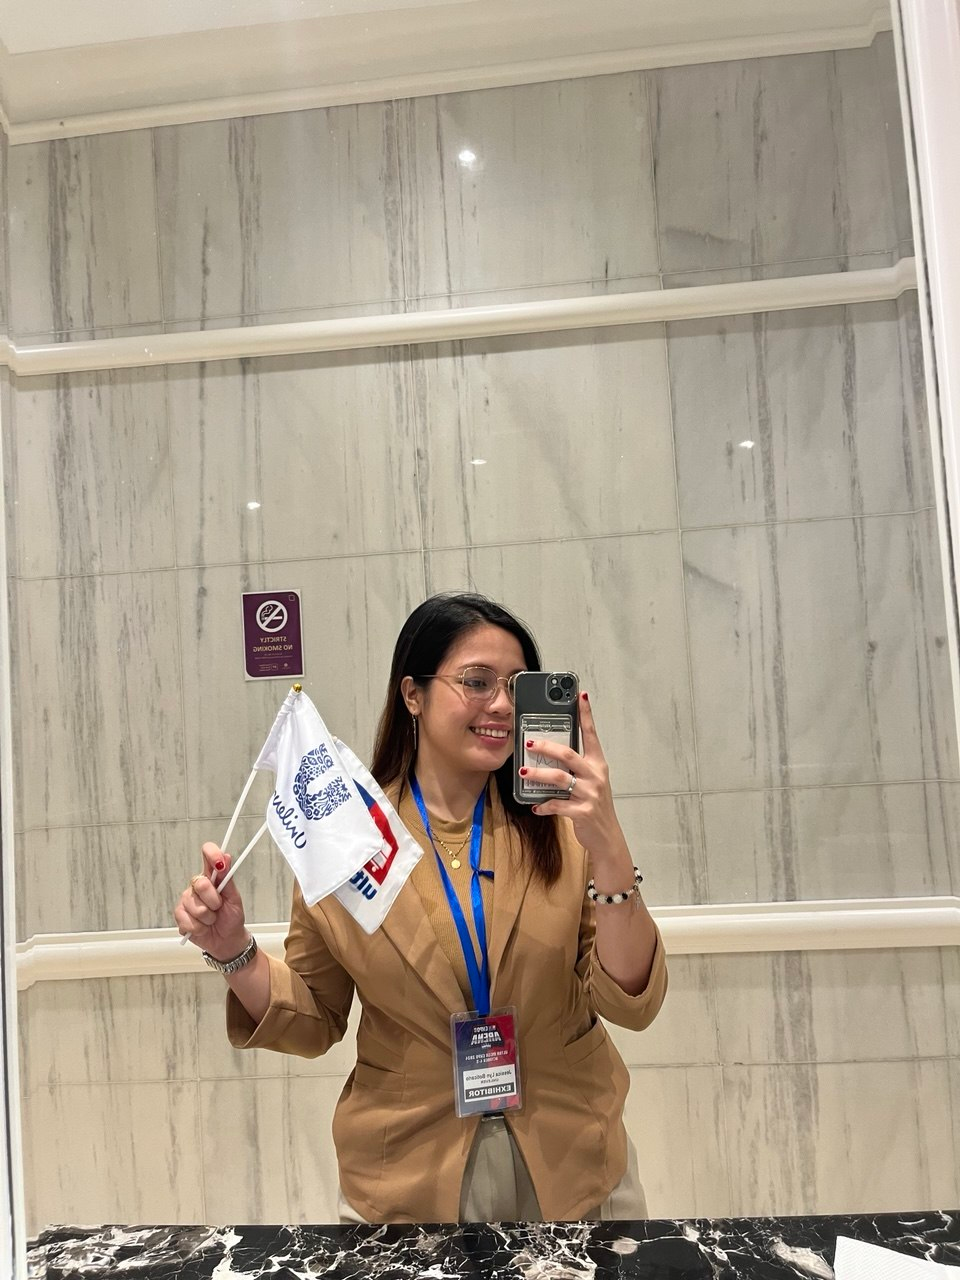
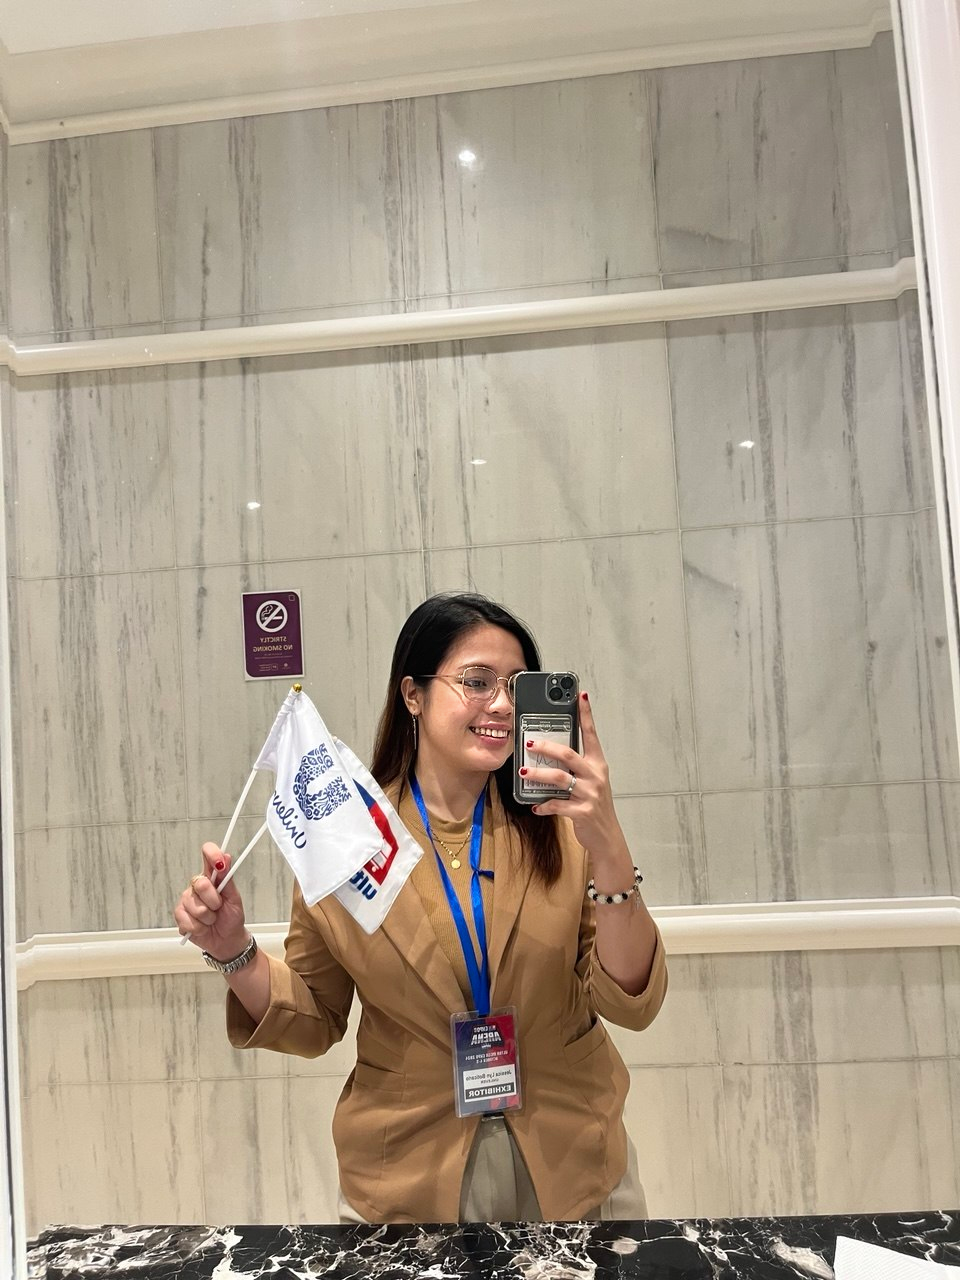
Add stage images to Journey cards and update ActivAsia role details
Restructure StageCard to feature a hero image with overlay header when
present, fix Stage type narrowing for optional image/honor fields, and
update ActivAsia metrics/title to reflect the combined role.

Changed region(s): [[0.4375, 0.5, 0.5625, 0.625]]

diff --git a/src/components/chapters/Journey.tsx b/src/components/chapters/Journey.tsx
@@ -8,75 +8,109 @@ import { Reveal } from "@/components/ui/Reveal";
 import { SplitText } from "@/components/ui/SplitText";
 import { Carousel } from "@/components/ui/Carousel";
 
-type Stage = (typeof profile.journey.stages)[number];
+// Flattened (non-union) shape so optional fields narrow predictably —
+// `(typeof profile.journey.stages)[number]` is a union of per-stage literal
+// types, which makes control-flow narrowing on `image`/`honor` collapse to `never`.
+type Stage = {
+  [K in keyof (typeof profile.journey.stages)[number]]: (typeof profile.journey.stages)[number][K];
+} & {
+  image?: string;
+  honor?: string;
+};
 
 function StageCard({ stage, index }: { stage: Stage; index: number }) {
   const [open, setOpen] = useState(false);
-  const s = stage as Stage & { image?: string; honor?: string };
+  const s = stage;
   const panelId = `stage-narrative-${index}`;
 
   return (
-    <div className="flex h-full w-[82vw] max-w-sm flex-col rounded-2xl border border-paper/10 bg-paper/[0.03] p-8 transition-colors duration-500 hover:bg-paper/[0.06] sm:w-[400px] md:p-10">
-      <div className="flex items-center justify-between gap-4">
-        <span className="font-mono text-xs uppercase tracking-[0.25em] text-cyan">
-          {String(index + 1).padStart(2, "0")} · {s.year}
-        </span>
-        {s.honor && (
-          <span className="inline-flex items-center gap-2 rounded-full border border-gold/40 px-3 py-1 font-mono text-[10px] uppercase tracking-[0.2em] text-gold">
-            <span className="h-1.5 w-1.5 rounded-full bg-gold" />
-            {s.honor}
-          </span>
-        )}
-      </div>
-
-      {s.image && (
-        <div className="mt-6 w-fit border border-paper/15 bg-obsidian-soft p-1.5">
-          <div className="relative aspect-[3/4] w-24 overflow-hidden bg-obsidian-soft">
-            <Image src={s.image} alt={`${s.role} at ${s.org}`} fill sizes="96px" className="object-contain" />
+    <div className="group flex h-full w-[85vw] max-w-md flex-col overflow-hidden rounded-2xl border border-paper/10 bg-paper/[0.03] transition-colors duration-500 hover:bg-paper/[0.06] sm:w-[440px]">
+      {s.image ? (
+        <div className="relative aspect-[4/3] w-full overflow-hidden bg-obsidian-soft">
+          <Image
+            src={s.image}
+            alt={`${s.role} at ${s.org}`}
+            fill
+            sizes="(min-width: 640px) 440px, 85vw"
+            className="object-cover transition-transform duration-700 group-hover:scale-105"
+          />
+          <div className="absolute inset-0 bg-gradient-to-t from-obsidian via-obsidian/10 to-transparent" />
+          <div className="absolute inset-x-0 bottom-0 flex items-center justify-between gap-4 p-5">
+            <span className="font-mono text-xs uppercase tracking-[0.25em] text-cyan">
+              {String(index + 1).padStart(2, "0")} · {s.year}
+            </span>
+            {s.honor && (
+              <span className="inline-flex items-center gap-2 rounded-full border border-gold/40 bg-obsidian/70 px-3 py-1 font-mono text-[10px] uppercase tracking-[0.2em] text-gold backdrop-blur-sm">
+                <span className="h-1.5 w-1.5 rounded-full bg-gold" />
+                {s.honor}
+              </span>
+            )}
           </div>
+        </div>
+      ) : (
+        <div className="flex items-center justify-between gap-4 px-8 pt-8 md:px-10 md:pt-10">
+          <span className="font-mono text-xs uppercase tracking-[0.25em] text-cyan">
+            {String(index + 1).padStart(2, "0")} · {s.year}
+          </span>
+          {s.honor && (
+            <span className="inline-flex items-center gap-2 rounded-full border border-gold/40 px-3 py-1 font-mono text-[10px] uppercase tracking-[0.2em] text-gold">
+              <span className="h-1.5 w-1.5 rounded-full bg-gold" />
+              {s.honor}
+            </span>
+          )}
         </div>
       )}
 
-      <h3 className="mt-6 font-display text-2xl leading-tight md:text-3xl">{s.role}</h3>
-      <p className="mt-1 text-sm text-paper/50">{s.org}</p>
+      <div className="flex flex-1 flex-col p-8 md:p-10">
+        <h3
+          className={
+            s.image
+              ? "font-display text-2xl leading-tight md:text-3xl"
+              : "mt-6 font-display text-2xl leading-tight md:text-3xl"
+          }
+        >
+          {s.role}
+        </h3>
+        <p className="mt-1 text-sm text-paper/50">{s.org}</p>
 
-      <ul className="mt-5 flex-1 space-y-2">
-        {s.bullets.map((b, i) => (
-          <li key={i} className="flex gap-2 text-[14px] leading-relaxed text-paper/75">
-            <span className="mt-[7px] h-1 w-1 flex-none rounded-full bg-paper/40" />
-            {b}
-          </li>
-        ))}
-      </ul>
+        <ul className="mt-5 flex-1 space-y-2">
+          {s.bullets.map((b, i) => (
+            <li key={i} className="flex gap-2 text-[14px] leading-relaxed text-paper/75">
+              <span className="mt-[7px] h-1 w-1 flex-none rounded-full bg-paper/40" />
+              {b}
+            </li>
+          ))}
+        </ul>
 
-      <button
-        type="button"
-        onClick={() => setOpen((v) => !v)}
-        data-cursor={open ? "Close" : "Read"}
-        aria-expanded={open}
-        aria-controls={panelId}
-        className="-mx-2 -my-3 mt-3 self-start px-2 py-3 font-mono text-[11px] uppercase tracking-[0.15em] text-cyan transition-colors hover:text-paper"
-      >
-        {open ? "Show less" : "Read more"}
-        <span aria-hidden="true"> {open ? "−" : "+"}</span>
-      </button>
+        <button
+          type="button"
+          onClick={() => setOpen((v) => !v)}
+          data-cursor={open ? "Close" : "Read"}
+          aria-expanded={open}
+          aria-controls={panelId}
+          className="-mx-2 -my-3 mt-3 self-start px-2 py-3 font-mono text-[11px] uppercase tracking-[0.15em] text-cyan transition-colors hover:text-paper"
+        >
+          {open ? "Show less" : "Read more"}
+          <span aria-hidden="true"> {open ? "−" : "+"}</span>
+        </button>
 
-      <AnimatePresence initial={false}>
-        {open && (
-          <motion.div
-            id={panelId}
-            initial={{ height: 0, opacity: 0 }}
-            animate={{ height: "auto", opacity: 1 }}
-            exit={{ height: 0, opacity: 0 }}
-            transition={{ duration: 0.4 }}
-            className="overflow-hidden"
-          >
-            <p className="mt-4 border-t border-paper/10 pt-4 text-[14px] leading-relaxed text-paper/60">
-              {s.narrative}
-            </p>
-          </motion.div>
-        )}
-      </AnimatePresence>
+        <AnimatePresence initial={false}>
+          {open && (
+            <motion.div
+              id={panelId}
+              initial={{ height: 0, opacity: 0 }}
+              animate={{ height: "auto", opacity: 1 }}
+              exit={{ height: 0, opacity: 0 }}
+              transition={{ duration: 0.4 }}
+              className="overflow-hidden"
+            >
+              <p className="mt-4 border-t border-paper/10 pt-4 text-[14px] leading-relaxed text-paper/60">
+                {s.narrative}
+              </p>
+            </motion.div>
+          )}
+        </AnimatePresence>
+      </div>
     </div>
   );
 }

diff --git a/src/content/profile.ts b/src/content/profile.ts
@@ -297,7 +297,7 @@ export const profile = {
         company: "ActivAsia Inc.",
         role: "Innovation Associate",
         duration: "2025",
-        metrics: ["1,000+ users"],
+        metrics: ["1,000+ users", "4 applications led"],
         problem:
           "Attendance tracking and reporting relied on manual, inconsistent processes that didn't scale with headcount — and any new system had to roll out without disrupting a team already relying on the old one.",
         responsibilities: [
@@ -351,10 +351,10 @@ export const profile = {
         index: "03",
         name: "Performance and Business Reviews",
         tag: "Marketing · Execution",
-        year: "2024",
+        year: "2024–2025",
         company: "ActivAsia Inc.",
-        role: "Activation Merchandising Coordinator",
-        duration: "2024",
+        role: "Activation Merchandising Coordinator & Innovation Associate",
+        duration: "2024–2025",
         metrics: [] as string[],
         problem:
           "Merchandising activations needed to stay true to brand guidelines and campaign objectives across multiple field teams — while scattered field results needed consolidating into something leadership could actually act on.",